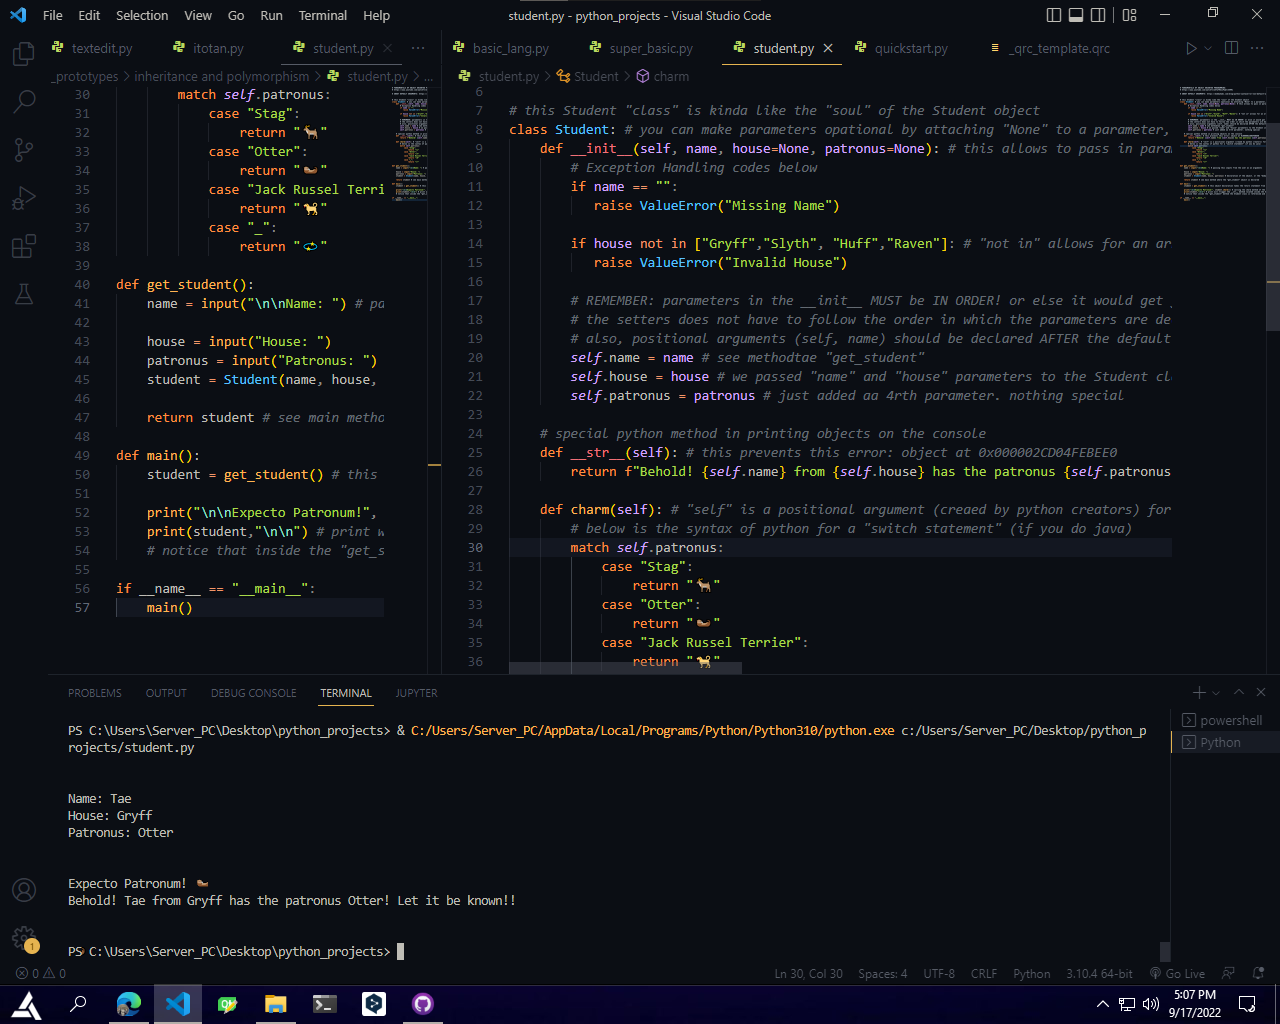
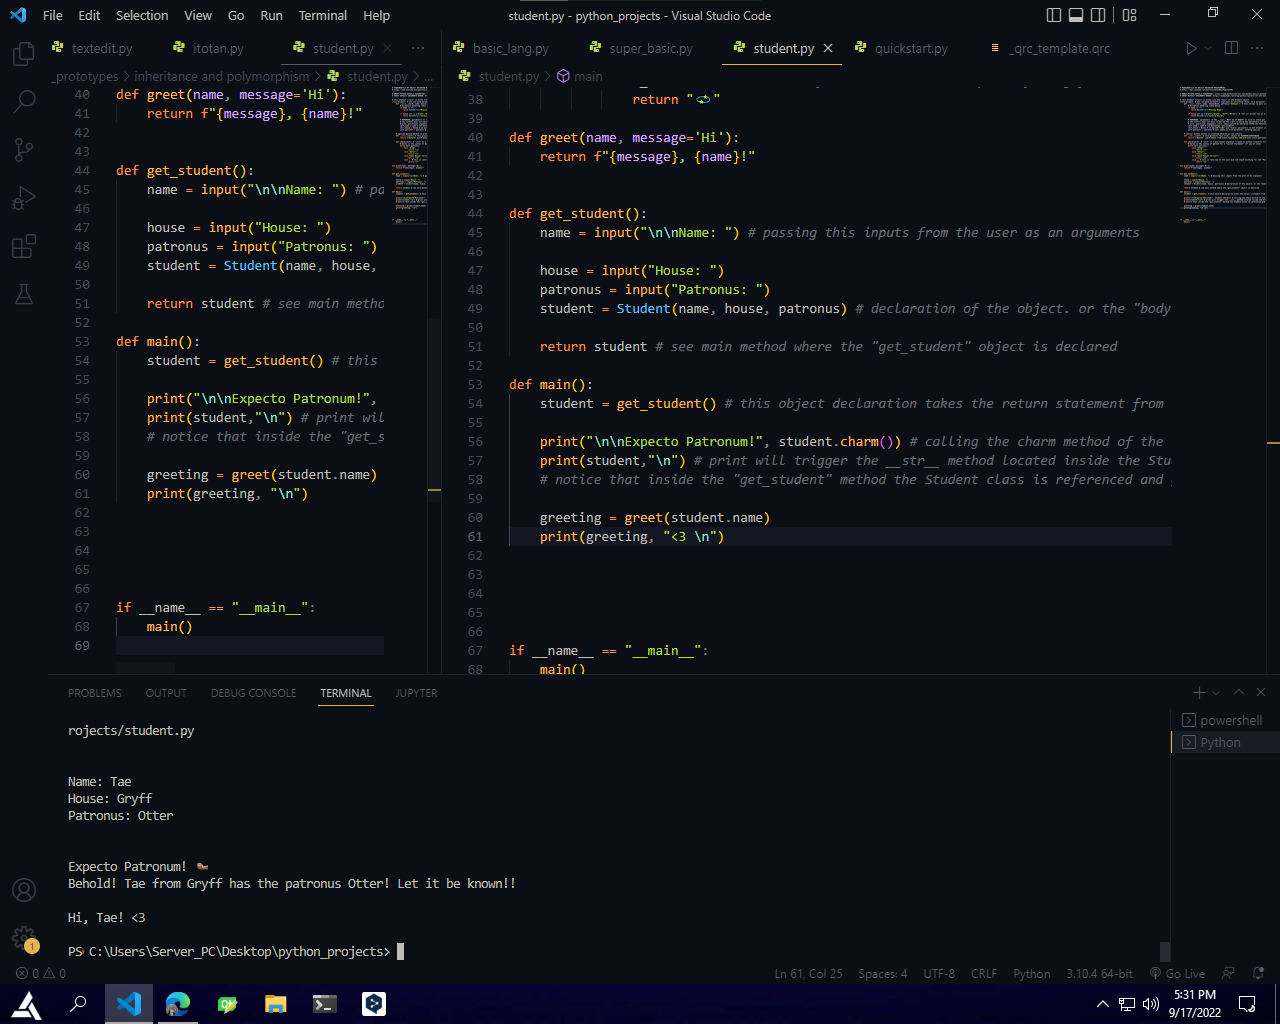
learning the fundamentals of OOP

diff --git a/_prototypes/inheritance and polymorphism/student.py b/_prototypes/inheritance and polymorphism/student.py
@@ -1,12 +1,12 @@
 # FUNDAMENTALS OF OBJECT ORIENTED PROGRAMMING: 
 # https://www.youtube.com/watch?v=e4fwY9ZsxPw&t=3599s
 
-# ABOUT DEFUALT ARGUMENTS: https://bobbyhadz.com/blog/python-syntaxerror-non-default-argument-follows-default-argument#:~:text=The%20Python%20%22SyntaxError%3A%20non%2D,positional%20parameters%20of%20the%20function.
-
+# ABOUT PYTHON DEFAULT PARAMETERS: https://www.pythontutorial.net/python-basics/python-default-parameters/
+# ABOUT DEFUALT ARGUMENTS ERROR: https://bobbyhadz.com/blog/python-syntaxerror-non-default-argument-follows-default-argument#:~:text=The%20Python%20%22SyntaxError%3A%20non%2D,positional%20parameters%20of%20the%20function.
 
 # this Student "class" is kinda like the "soul" of the Student object
 class Student: # you can make parameters opational by attaching "None" to a parameter, as in house=None
-    def __init__(self, name, house=None, patronus=None): # this allows to pass in parameters into the "declaration object"
+    def __init__(self, name, house=None, patronus='Unknown'): # this allows to pass in parameters into the "declaration object"
         # Exception Handling codes below
         if name == "":
            raise ValueError("Missing Name")
@@ -34,8 +34,12 @@ class Student: # you can make parameters opational by attaching "None" to a para
                 return "🦦"
             case "Jack Russel Terrier":
                 return "🐕"
-            case "_":
+            case _: # this is returned if the user did not input anything for the "Patronus:"
                 return "💫"
+
+def greet(name, message='Hi'):
+    return f"{message}, {name}!"
+
 
 def get_student():
     name = input("\n\nName: ") # passing this inputs from the user as an arguments
@@ -50,8 +54,16 @@ def main():
     student = get_student() # this object declaration takes the return statement from the "get_student" method
 
     print("\n\nExpecto Patronum!", student.charm()) # calling the charm method of the "Student" class
-    print(student,"\n\n") # print will trigger the __str__ method located inside the Student class, because the "print" method is looking for a "string" input
+    print(student,"\n") # print will trigger the __str__ method located inside the Student class, because the "print" method is looking for a "string" input
     # notice that inside the "get_student" method the Student class is referenced and given variables (name, house, patronus) and then returned student
+
+    greeting = greet(student.name)
+    print(greeting, "\n")
+
+
+
+
 
 if __name__ == "__main__":
     main()
+    
